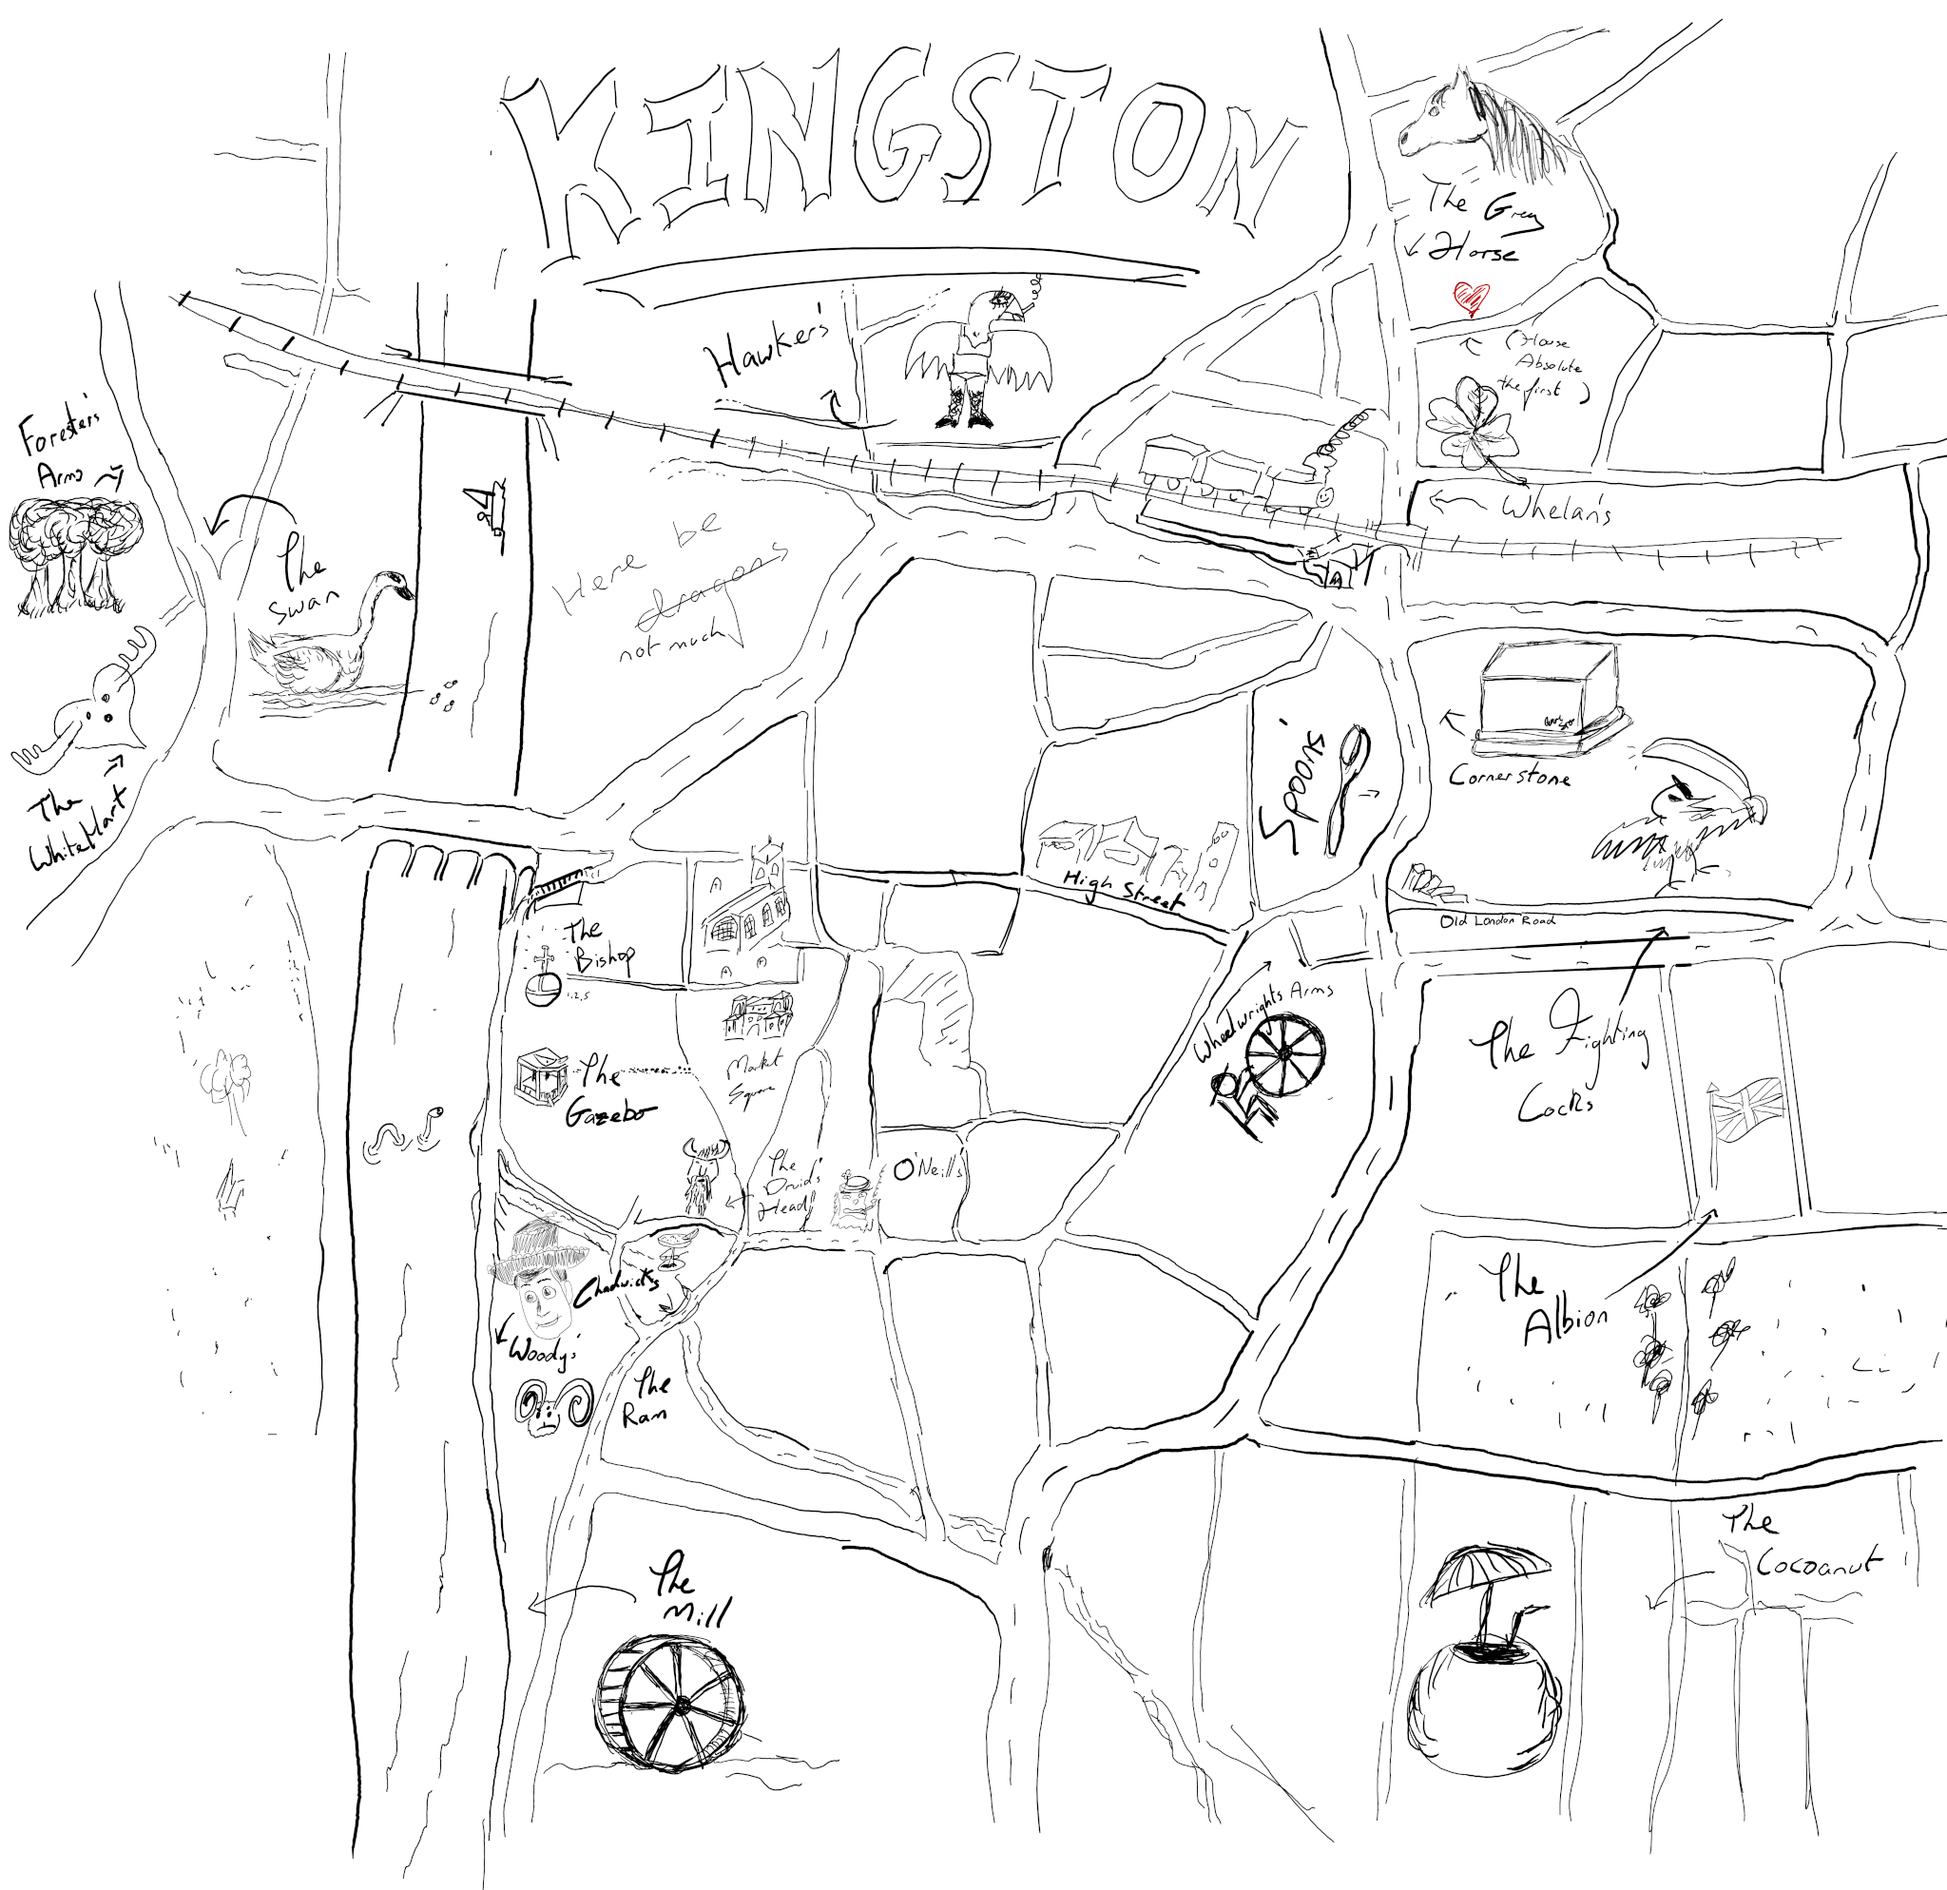
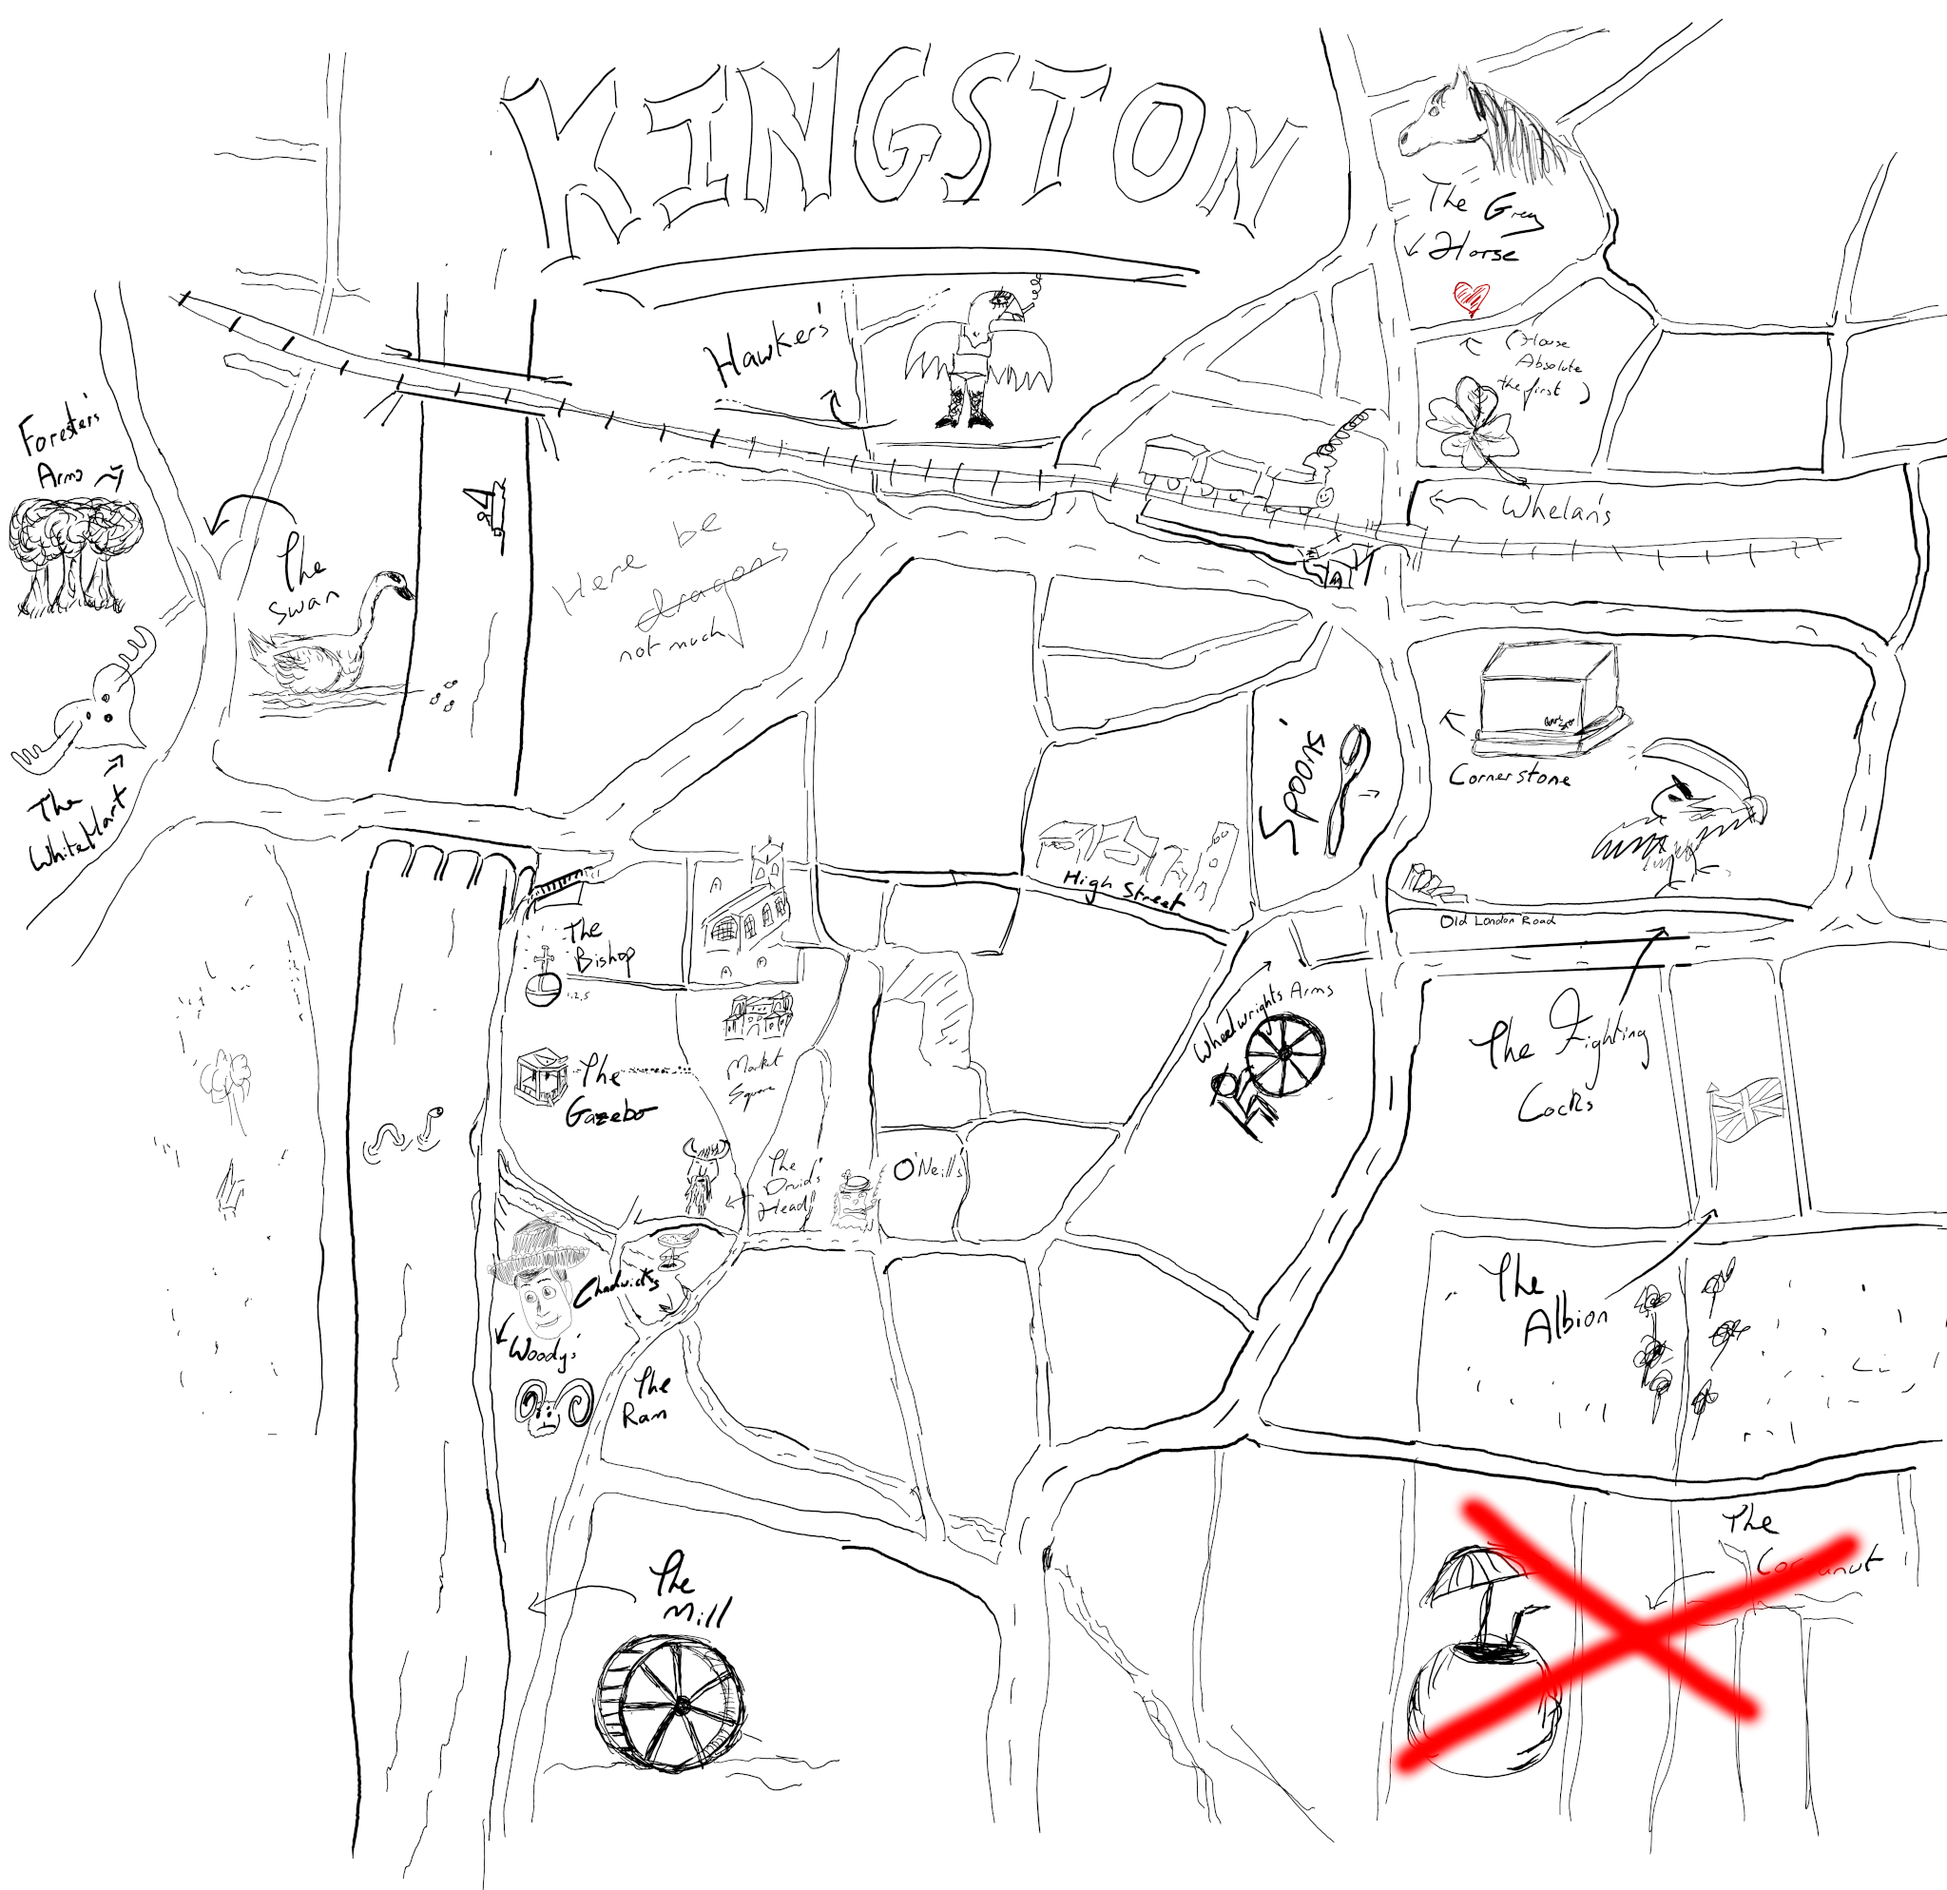
Drop locations (#83)
* Final drop locations

* Typo

* Cross out Cocoanut

Changed region(s): [[0.7188, 0.7797, 0.9688, 0.9356]]

diff --git a/backend/locations.py b/backend/locations.py
@@ -25,10 +25,11 @@ LANDMARK_LOCATIONS = {
     "CIRCLE2": [51.409, -0.3033],
     "CIRCLE3": [51.410300725650906, -0.30607777442454853],
     "CIRCLE4": [51.41091303903816, -0.30495124665767204],
-    "DROP_PLAYGROUND": [51.40983855746409, -0.29861653935540583],
-    "DROP_BRIDGE": [51.41117862318682, -0.3090610609877217],
-    "DROP_RIVER": [51.409552470794374, -0.3084709749565697],
-    "DROP_MARKET": [51.40961888129636, -0.30609350043989036],
-    "DROP_POSTBOXES": [51.41083682620598, -0.30047159017521047],
-    "DROP_FINAL": [51.41093762307588, -0.304942161814681],
+    "DROP_PLAYGROUND": [51.409344, -0.298515],
+    "DROP_BRIDGE": [51.411212, -0.310517],
+    "DROP_RIVER": [51.409878, -0.308430],
+    "DROP_MARKET": [51.409901, -0.306344],
+    "DROP_POSTBOXES": [51.410784, -0.300363],
+    "DROP_FINAL": [51.411000, -0.304620],
+    "DROP_ALLEY": [51.413291, -0.305065],
 }
